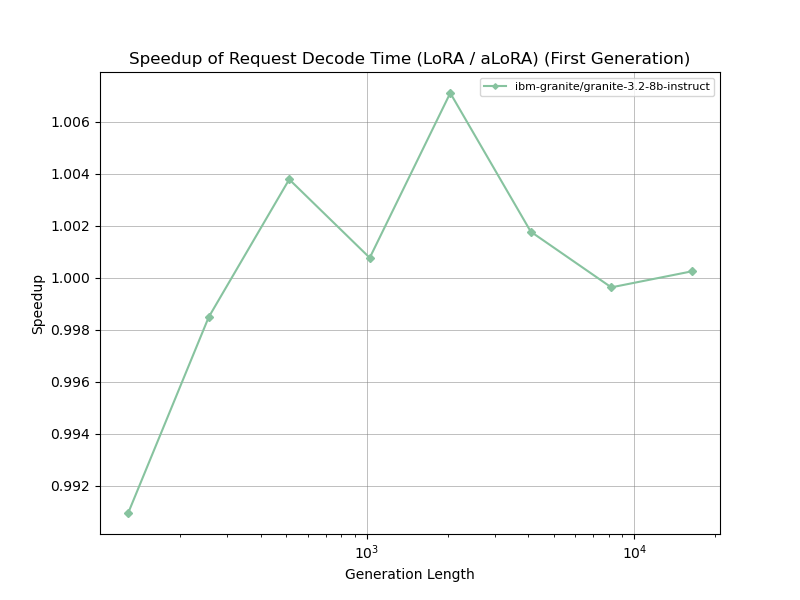
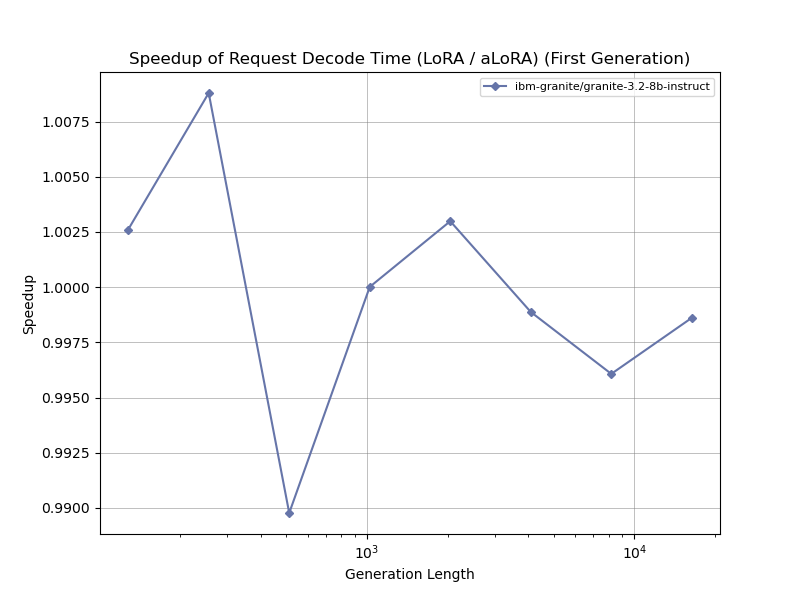
r

diff --git a/vllm/perf_eval/plots.py b/vllm/perf_eval/plots.py
@@ -6,8 +6,8 @@ gen_lens = [128, 256, 512, 1024, 2048, 4096, 8192, 16384]
 lambdas = [0.5, 1, 5, 10, 50, 100, 500, 1000, 5000, 10000, 20000, 50000]
 
 # component = "eval"
-component = "gen_1"
-# component = "gen_2"
+# component = "gen_1"
+component = "gen_2"
 # component = "gen+eval"
 
 component_title = {'eval': 'Evaluation', 'gen_1': 'First Generation', 'gen_2': 'Second Generation'}
